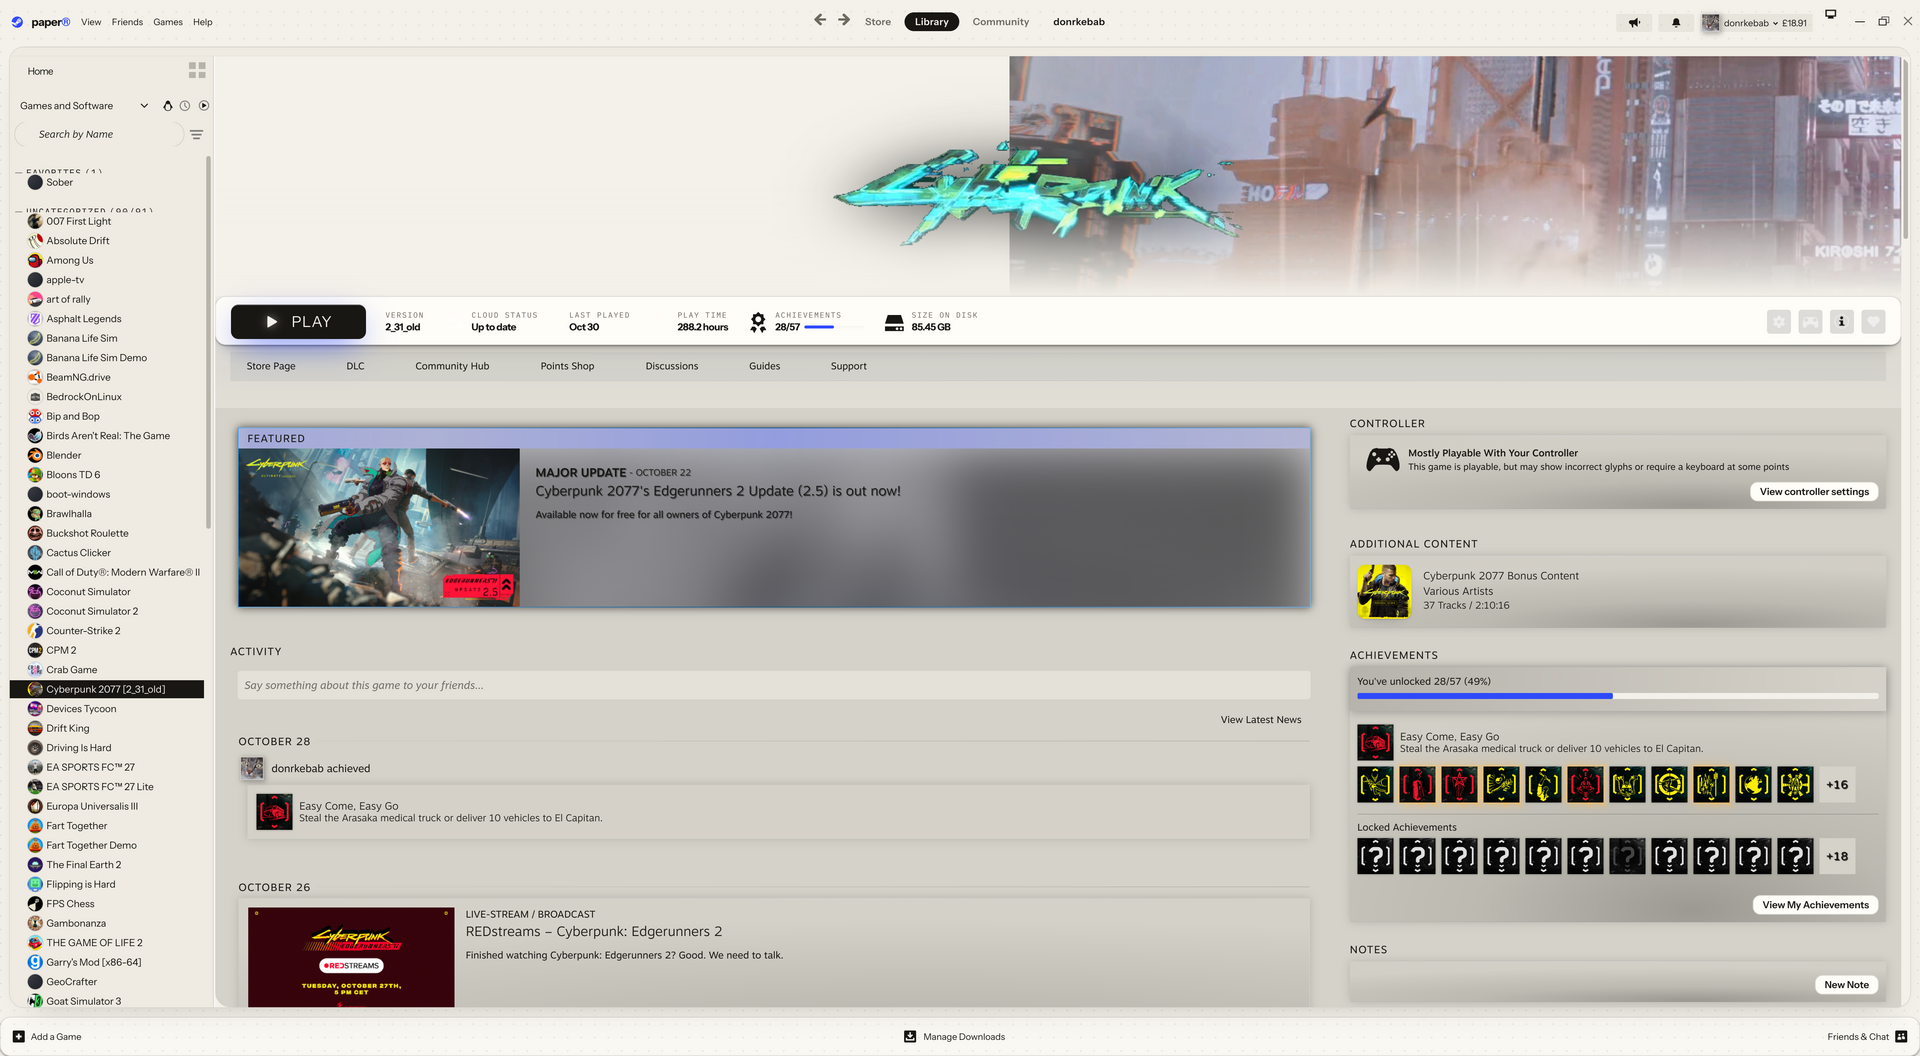
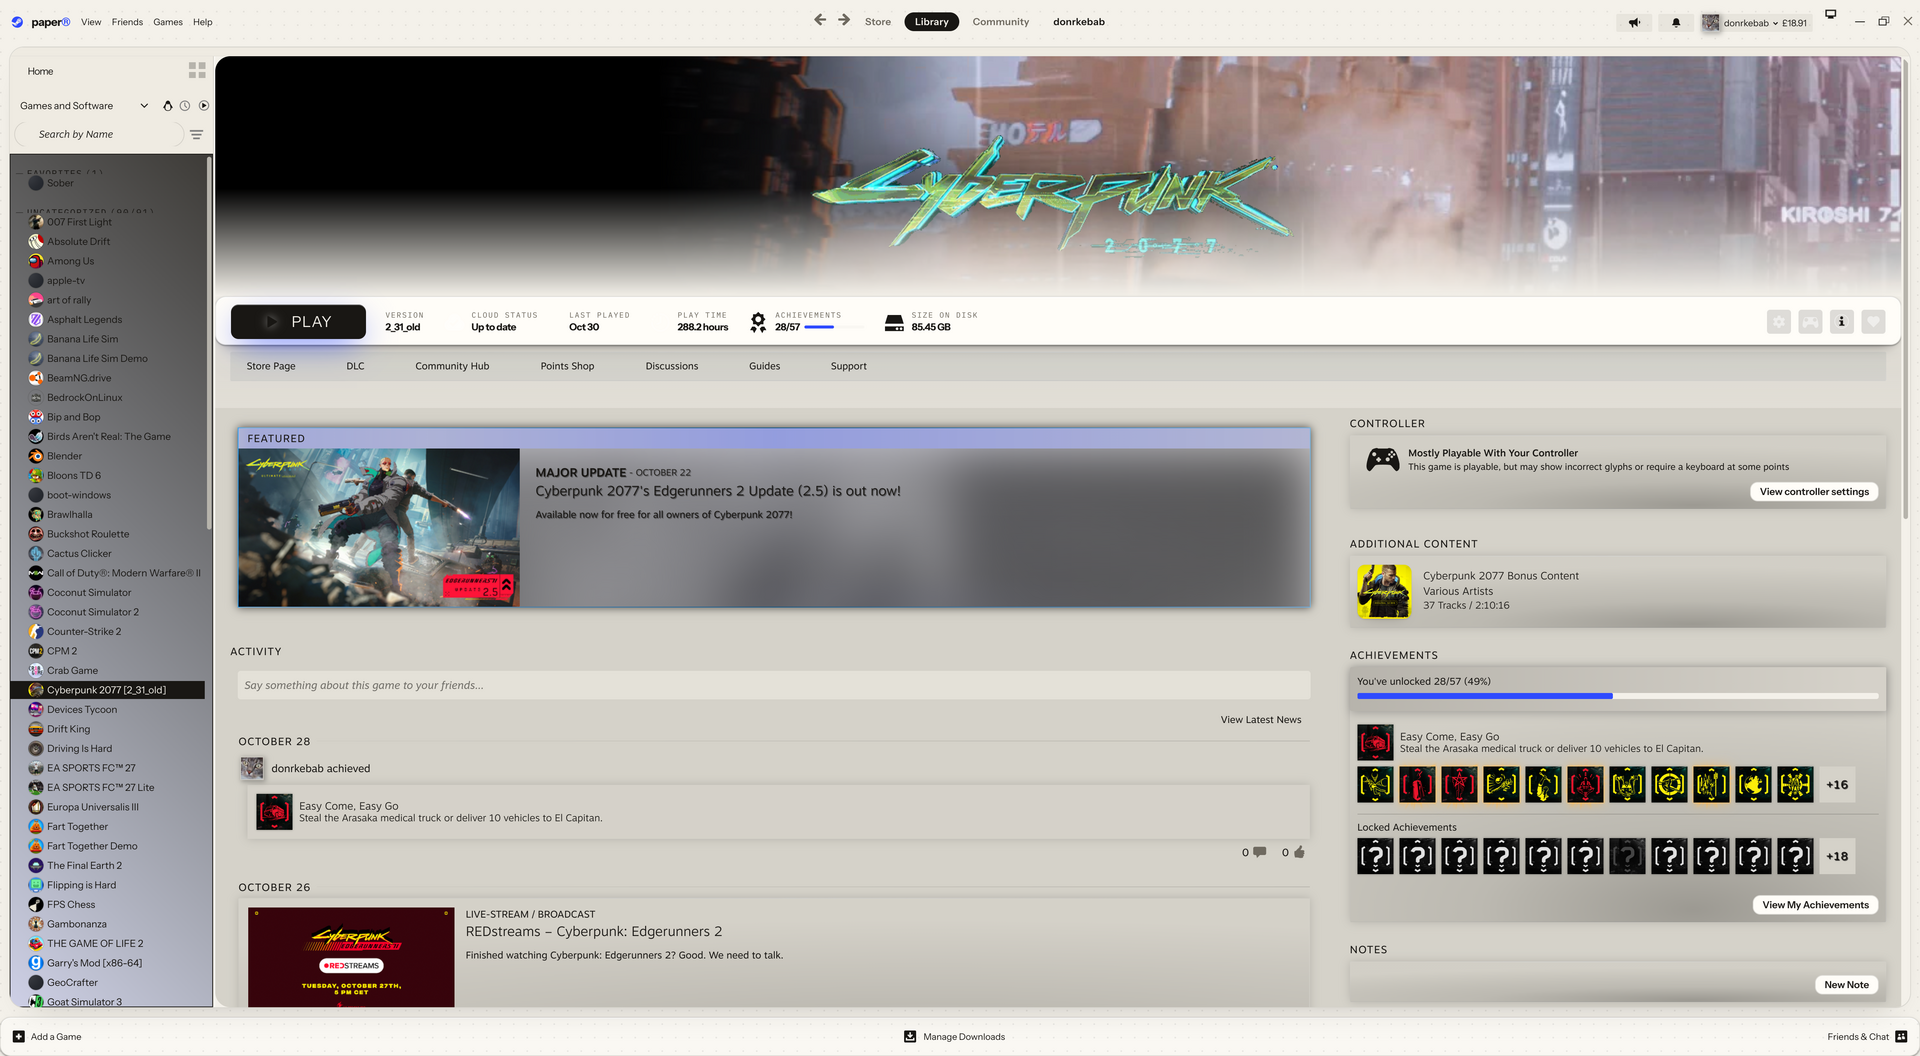
Centered game art, solid sidebar colors, refreshed screenshots

Changed region(s): [[0.0, 0.0312, 1.0, 0.9688]]

diff --git a/mx/main.css b/mx/main.css
@@ -1029,12 +1029,10 @@ body::before{content:"";position:fixed;inset:-20%;pointer-events:none;z-index:0;
 ._1rDh5rXSFZJOqCa4UpnI4z{margin-top:6px!important}
 ._26Gmfe09NRsnF7eprTZYdY{margin:8px 12px!important;height:30px!important}
 ._39oUCO1OuizVPwcnnv88no>*,._39oUCO1OuizVPwcnnv88no>*>*{align-self:center!important}
-/* hero art: fill the banner edge to edge; hide the blurred fallback layer */
-.NZMJ6g2iVnFsOOp-lDmIP .HNbe3eZf6H7dtJ042x1vM.HSQWw9HUAP6jtA2OZjS-u{display:none!important}
-.NZMJ6g2iVnFsOOp-lDmIP .QlR9EFwTdUNm_J5vx54_Z{left:0!important;right:0!important;width:100%!important}
-.NZMJ6g2iVnFsOOp-lDmIP{background:var(--bg-solid)!important}
-.NZMJ6g2iVnFsOOp-lDmIP .HNbe3eZf6H7dtJ042x1vM:not(.HSQWw9HUAP6jtA2OZjS-u){width:100%!important;height:100%!important;object-fit:contain!important;object-position:center!important;left:0!important;transform:none!important;-webkit-mask-image:linear-gradient(90deg,transparent 0,#000 22%,#000 78%,transparent 100%);mask-image:linear-gradient(90deg,transparent 0,#000 22%,#000 78%,transparent 100%)}
-._3ydigb6zZAjJ0JCDgHwSYA._2AzIX5kl9k6JnxLfR5H4kX:has(.SVGIcon_Play) *,._3ydigb6zZAjJ0JCDgHwSYA._2AzIX5kl9k6JnxLfR5H4kX:has(.SVGIcon_Download) *{color:inherit!important;fill:currentColor!important}
+/* hero art: Steam's own centring (max 1660px); blurred/mirrored fills hidden; solid black sides with a soft edge */
+.NZMJ6g2iVnFsOOp-lDmIP{overflow:hidden!important;background:#000!important}
+.NZMJ6g2iVnFsOOp-lDmIP .HNbe3eZf6H7dtJ042x1vM.HSQWw9HUAP6jtA2OZjS-u,.NZMJ6g2iVnFsOOp-lDmIP .HNbe3eZf6H7dtJ042x1vM._3_IUVzR9tpG_JKEjhwXEAb{display:none!important}
+.NZMJ6g2iVnFsOOp-lDmIP .HNbe3eZf6H7dtJ042x1vM:not(.HSQWw9HUAP6jtA2OZjS-u):not(._3_IUVzR9tpG_JKEjhwXEAb){-webkit-mask-image:linear-gradient(90deg,transparent,#000 12%,#000 88%,transparent),linear-gradient(#000 70%,transparent)!important;-webkit-mask-composite:source-in!important;mask-composite:intersect!important;-webkit-mask-size:100% 100%!important;-webkit-mask-repeat:no-repeat!important}
 /* ===== layout layer: floating composition, motion, spotlight ===== */
 :root{--ease:cubic-bezier(.2,.9,.25,1)}
 /* panel recipe */

diff --git a/mx/opt/accent-forest.css b/mx/opt/accent-forest.css
@@ -1,1 +1,1 @@
-:root{--acc:#1f7a4d!important;--acc2:#e0a100!important;--ring:#1f7a4d40!important;--spot:#1f7a4d1f!important;--line-hi:#1f7a4d66!important;--sel:linear-gradient(100deg,#1f7a4d,#e0a100)!important;--sel-fg:#ffffff!important;--nav-sel-fg:#1f7a4d!important;--btn-pri:linear-gradient(110deg,#1f7a4d,#e0a100,#1f7a4d)!important;--btn-pri-fg:#ffffff!important;--price-bg:#1f7a4d!important;--price-fg:#ffffff!important;--st-accent-1:31,122,77!important;--st-accent-2:224,161,0!important;--st-blue:31,122,77!important;--st-blue-hover:224,161,0!important}
+:root{--acc:#1f7a4d!important;--acc2:#e0a100!important;--ring:#1f7a4d40!important;--spot:#1f7a4d1f!important;--line-hi:#1f7a4d66!important;--sel:#1f7a4d!important;--sel-fg:#ffffff!important;--nav-sel-fg:#1f7a4d!important;--btn-pri:linear-gradient(110deg,#1f7a4d,#e0a100,#1f7a4d)!important;--btn-pri-fg:#ffffff!important;--price-bg:#1f7a4d!important;--price-fg:#ffffff!important;--st-accent-1:31,122,77!important;--st-accent-2:224,161,0!important;--st-blue:31,122,77!important;--st-blue-hover:224,161,0!important}

diff --git a/mx/opt/accent-inkred.css b/mx/opt/accent-inkred.css
@@ -1,1 +1,1 @@
-:root{--acc:#d7263d!important;--acc2:#2f4bff!important;--ring:#d7263d40!important;--spot:#d7263d1f!important;--line-hi:#d7263d66!important;--sel:linear-gradient(100deg,#d7263d,#2f4bff)!important;--sel-fg:#ffffff!important;--nav-sel-fg:#d7263d!important;--btn-pri:linear-gradient(110deg,#d7263d,#2f4bff,#d7263d)!important;--btn-pri-fg:#ffffff!important;--price-bg:#d7263d!important;--price-fg:#ffffff!important;--st-accent-1:215,38,61!important;--st-accent-2:47,75,255!important;--st-blue:215,38,61!important;--st-blue-hover:47,75,255!important}
+:root{--acc:#d7263d!important;--acc2:#2f4bff!important;--ring:#d7263d40!important;--spot:#d7263d1f!important;--line-hi:#d7263d66!important;--sel:#d7263d!important;--sel-fg:#ffffff!important;--nav-sel-fg:#d7263d!important;--btn-pri:linear-gradient(110deg,#d7263d,#2f4bff,#d7263d)!important;--btn-pri-fg:#ffffff!important;--price-bg:#d7263d!important;--price-fg:#ffffff!important;--st-accent-1:215,38,61!important;--st-accent-2:47,75,255!important;--st-blue:215,38,61!important;--st-blue-hover:47,75,255!important}

diff --git a/mx/opt/accent-graphite.css b/mx/opt/accent-graphite.css
@@ -1,1 +1,1 @@
-:root{--acc:#191714!important;--acc2:#ff5a36!important;--ring:#19171440!important;--spot:#1917141f!important;--line-hi:#19171466!important;--sel:linear-gradient(100deg,#191714,#ff5a36)!important;--sel-fg:#ffffff!important;--nav-sel-fg:#191714!important;--btn-pri:linear-gradient(110deg,#191714,#ff5a36,#191714)!important;--btn-pri-fg:#ffffff!important;--price-bg:#191714!important;--price-fg:#ffffff!important;--st-accent-1:25,23,20!important;--st-accent-2:255,90,54!important;--st-blue:25,23,20!important;--st-blue-hover:255,90,54!important}
+:root{--acc:#191714!important;--acc2:#ff5a36!important;--ring:#19171440!important;--spot:#1917141f!important;--line-hi:#19171466!important;--sel:#191714!important;--sel-fg:#ffffff!important;--nav-sel-fg:#191714!important;--btn-pri:linear-gradient(110deg,#191714,#ff5a36,#191714)!important;--btn-pri-fg:#ffffff!important;--price-bg:#191714!important;--price-fg:#ffffff!important;--st-accent-1:25,23,20!important;--st-accent-2:255,90,54!important;--st-blue:25,23,20!important;--st-blue-hover:255,90,54!important}
